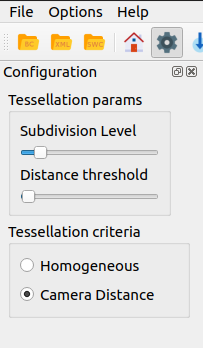
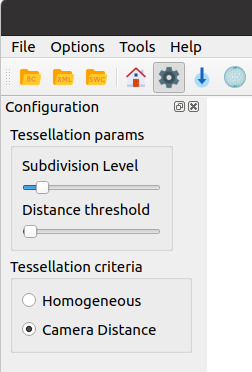
Update to version 0.2.2.

diff --git a/source/conf.py b/source/conf.py
@@ -22,7 +22,7 @@ copyright = '2022, Universidad Rey Juan Carlos'
 author = 'Félix de las Pozas Álvarez'
 
 # The full version, including alpha/beta/rc tags
-release = '0.2.1'
+release = '0.2.2'
 
 
 # -- General configuration ---------------------------------------------------
@@ -67,7 +67,7 @@ latex_maketitle = r'''
 \begin{center}
   \includegraphics[width=6cm,height=6cm]{neurotessmesh.png}\\[8ex]
   {\Huge NeuroTessMesh Documentation}\\[4ex]
-  {\Large Version 0.2.1}\\[4ex]
+  {\Large Version 0.2.2}\\[4ex]
   {\Large Juan Jos\'{e} Garc\'{i}a Cantero \& F\'{e}lix de las Pozas \'{A}lvarez}\\[4ex]
   {\Large March 2022}\\[16ex]
   {\Large Visualization \& Graphics Lab, Universidad Rey Juan Carlos}\\[4ex]

diff --git a/source/02-NeuroTessMeshUserInterface.rst b/source/02-NeuroTessMeshUserInterface.rst
@@ -13,6 +13,8 @@ The application bar presents several icons to perform actions such as opening da
 .. figure:: images/NTMimage001.png
    :alt: NeuroTessMesh application toolbar
    :align: center
+   :width: 326
+   :scale: 100%
 
    NeuroTessMesh application tool bar. 
    
@@ -48,7 +50,7 @@ Configuration
 .. figure:: images/NTMimage002.png
    :alt: Configuration panel
    :align: center
-   :width: 203
+   :width: 252
    :scale: 80%
 
    Configuration panel.
@@ -73,7 +75,7 @@ Render panel
 .. figure:: images/NTMimage003.png
    :alt: Render panel
    :align: center
-   :width: 329
+   :width: 323
    :scale: 80%
 
    Render panel.
@@ -95,7 +97,7 @@ Edit and save panel
 .. figure:: images/NTMimage004.png
    :alt: Edit and save panel
    :align: center
-   :width: 1001
+   :width: 1020
    :scale: 60%
 
    Edit and save panel.
@@ -113,7 +115,7 @@ The camera can be manipulated using the mouse. The movements are:
 Recorder
 --------
 
-The recording feature can be activated using the **Options** menu or by clicking the Recorder icon in the toolbar. The user will be presented with the recorder configuration dialog (:numref:`figA`).
+The recording feature can be activated using the **Tools** menu or by clicking the Recorder icon in the toolbar. The user will be presented with the recorder configuration dialog (:numref:`figA`).
 
 .. _figA:
 
@@ -127,7 +129,7 @@ The recording feature can be activated using the **Options** menu or by clicking
 
 The recorder will generate a mp4 video if the media application **ffmpeg** is detected and available, if not the generated output will be individual frames. The frames per second of the output can be specified here. The user can specify the input of the recording, being the main application window or just the 3D viewport.
 
-In the advanced configuration dialog (:numref:`figB`) the user can modify additional options as which worker (video or frames) to use to generate the output. The advanced configuration dialog can be enabled by checking the **Advanced recorder options checkbox** in the Options menu).
+In the advanced configuration dialog (:numref:`figB`) the user can modify additional options as which worker (video or frames) to use to generate the output. The advanced configuration dialog can be enabled by checking the **Advanced recorder options checkbox** in the **Tools** menu).
 
 .. _figB:
 
@@ -145,7 +147,10 @@ If the output is a video the user can specify the location of the generated file
 
 The dimensions of the output are shown and can be modified with the scale options.
 
-While the recorder is working the associated toolbar button will remain down and the user must click it again to stop it. The recorder can also be stopped using the Recorder button in the Tools menu or the keyboard shortcut **Ctrl + R**.
+While the recorder is working the associated toolbar button will remain down and the icon will change every second with an image of a "Stop" button with REC letters written inside it. The user must click it again to stop the recording. The recorder can also be stopped using the **Recorder** button in the **Tools** menu or the keyboard shortcut **Ctrl + R**.
+
+.. note::
+   If the output is a video the filename of the output file will end with "_temporal" while recording. Once the recording has finished it will change to the selected output name in the configuration dialog. The application will warn if the user tries to exit the application while a recording is being made.
 
 .. warning::
    To record a video the system must have **ffmpeg** installed, preferably with Nvidia hardware acceleration. 

diff --git a/source/01-Introduction.rst b/source/01-Introduction.rst
@@ -4,7 +4,7 @@ NeuroTessMesh Introduction
 
 **NeuroLOTs** is a set of libraries and tools that implement a method for generating neuronal meshes and for visualizing them at different levels of detail using GPU-based tessellation. As a part of NeuroLOTs, **NeuroTessMesh** provides a visual environment for the generation of 3D polygonal meshes that approximate the membrane of neuronal cells, from the morphological tracings that describe the morphology of the neurons. The 3D models can be tessellated at different levels of detail, providing either homogeneous or adaptive resolution along the model. The soma shape is recovered from the incomplete information of the tracings, applying a physical deformation model that can be interactively adjusted. The adaptive refinement process performed in the GPU generates meshes that allow good visual quality geometries at an affordable computational cost, both in terms of memory and rendering time. NeuroTessMesh is the front-end GUI to NeuroLOTs framework. 
 
-This documentation is for NeuroTessMesh version 0.2.1 software that can be obtained from the homepage.
+This documentation is for NeuroTessMesh version 0.2.2 software that can be obtained from the homepage.
 
 ---------------------
 Hardware requirements
@@ -117,9 +117,9 @@ Docker example
 
   xhost +local:docker
   # Pull the image.
-  docker pull vglab/neurotessmesh:0.2.1-nvidia-ubuntu-16.04
+  docker pull vglab/neurotessmesh:0.2.2-nvidia-ubuntu-16.04
   # Download example data
   wget http://neuromorpho.org/dableFiles/allen%20cell%20types/CNG%20version/H16-03-001-01-09-01_559391771_m.CNG.swc
   # Run example
-  docker run --gpus 1 -ti --rm -e DISPLAY -v /tmp/.X11-unix:/tmp/.X11-unix -v /etc/machine-id:/etc/machine-id -v $(pwd)/H16-03-001-01-09-01_559391771_m.CNG.swc:/H16-03-001-01-09-01_559391771_m.CNG.swc --privileged vglab/neurotessmesh:0.2.1-nvidia-ubuntu-16.04 /usr/bin/NeuroTessMesh -swc /H16-03-001-01-09-01_559391771_m.CNG.swc
+  docker run --gpus 1 -ti --rm -e DISPLAY -v /tmp/.X11-unix:/tmp/.X11-unix -v /etc/machine-id:/etc/machine-id -v $(pwd)/H16-03-001-01-09-01_559391771_m.CNG.swc:/H16-03-001-01-09-01_559391771_m.CNG.swc --privileged vglab/neurotessmesh:0.2.2-nvidia-ubuntu-16.04 /usr/bin/NeuroTessMesh -swc /H16-03-001-01-09-01_559391771_m.CNG.swc
 

diff --git a/source/03-Runbook.rst b/source/03-Runbook.rst
@@ -12,7 +12,7 @@ Runbook
 .. figure:: images/NTMimage005.png
    :alt: Opening a file.
    :align: center
-   :width: 997
+   :width: 999
    :scale: 60%
 
    Opening a file.
@@ -76,7 +76,7 @@ Runbook
 .. figure:: images/NTMimage009.png
    :alt: Save to file.
    :align: center
-   :width: 1001
+   :width: 999
    :scale: 60%
 
    Save results to file.
